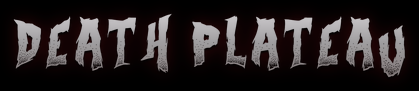
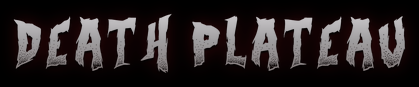
wordmark: put every glyph on one baseline, so the corrected U sits right
The U is rendered 1.25x to make up for a glyph whose cap is 20% short of its
neighbours. It came out the right size and nine pixels too low, hanging under the
rest of the word.

PIL's default text anchor places a glyph by the top of its ASCENDER BOX, not by the
baseline, and the U is drawn from a larger font whose ascender box is taller - so
the bigger the correction, the further it sank. Drawing with anchor 'ls' at one
computed baseline puts every glyph on the same line whatever size it is set at.

Measured off the shipped PNG rather than the source, because the source looked
correct either way: before, U top 26 against a 17.5 mean and bottom 76 against 67.5
- right height, wrong place. After, top 17 and bottom 67 against the same means,
and height 50 against 49.9.

Claude-Session: https://claude.ai/code/session_01H5jUFgNVD2TsiU9RFJYaYq

diff --git a/tools/art/make_wordmark.py b/tools/art/make_wordmark.py
@@ -76,18 +76,25 @@ def text_mask(size, pad):
         return fu if i == len(WORD) - 1 else f
 
     width = sum(font_for(i).getlength(c) + track for i, c in enumerate(WORD)) - track
-    # Ascent and descent across both sizes, so no spike is clipped at either end.
-    top = min(font_for(i).getbbox(c)[1] for i, c in enumerate(WORD) if c != ' ')
-    bottom = max(font_for(i).getbbox(c)[3] for i, c in enumerate(WORD) if c != ' ')
+
+    # EVERY GLYPH ON ONE BASELINE, which is what anchor 'ls' means and why it is not optional
+    # here. PIL's default anchor places text by the top of the ASCENDER box, and the U is drawn
+    # from a larger font whose ascender box is taller - so drawn that way the U comes out the
+    # right size but sitting some nine pixels low, hanging under the word. Measuring the shipped
+    # PNG is what found it: height right at 100% of its neighbours, top 26 against their 17.
+    boxes = [font_for(i).getbbox(c, anchor='ls') for i, c in enumerate(WORD) if c != ' ']
+    above = min(b[1] for b in boxes)        # negative: how far the tallest glyph rises
+    below = max(b[3] for b in boxes)        # positive: how far the lowest spike drops
 
     w = int(width + pad * 2 * SS)
-    h = int(bottom - top + pad * 2 * SS)
+    h = int(below - above + pad * 2 * SS)
+    baseline = pad * SS - above
     mask = Image.new('L', (w, h), 0)
     dr = ImageDraw.Draw(mask)
     x = pad * SS
     for i, c in enumerate(WORD):
         use = font_for(i)
-        dr.text((x, pad * SS - top), c, font=use, fill=255)
+        dr.text((x, baseline), c, font=use, fill=255, anchor='ls')
         x += use.getlength(c) + track
     return mask.resize((w // SS, h // SS), Image.LANCZOS)
 
